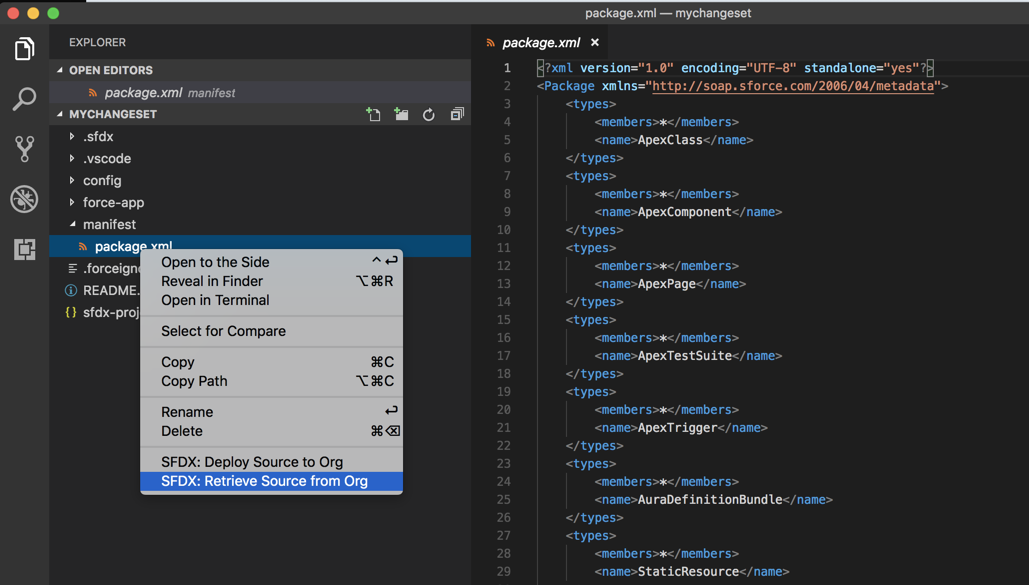
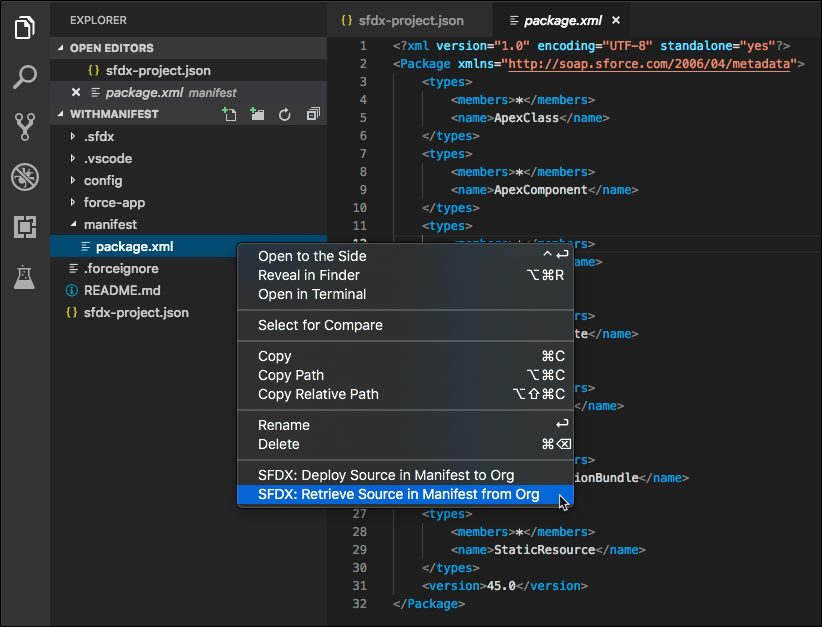
Continue editing
@W-5768689@

diff --git a/docs/articles/user-guide/org-development-model.md b/docs/articles/user-guide/org-development-model.md
@@ -2,45 +2,46 @@
 title: Org Development Model with VS Code
 ---
 
-The latest release of the Salesforce Extensions for VS Code and the Salesforce CLI added an open beta of basic support for developing against non-scratch orgs. This means you can now use VS Code with your `package.xml` file against Scratch Orgs, Developer Edition Orgs, etc.
+When you use the Org Development Model, you track your changes manually and deploy sets of changes to sandboxes and then to your production org. (The Package Development Model, in contrast, involves working with source-tracked orgs and moving your changes between orgs using packaged sets of metadata.) For details, see the [Org Development Model](https://trailhead.salesforce.com/content/learn/modules/org-development-model) Trailhead module.
+
+This article describes how to work with orgs that don’t have source tracking, such as sandboxes and Developer Edition (DE) orgs, in VS Code.
 
 ![Demo](/images/changeset-demo.gif)
 
 ## Getting Started
 
-First, Open VS Code and create a project. To create a project with a manifest run the command `SFDX: Create Project with Manifest`.
+First, open VS Code and create a project. To create a project with a manifest, open the command palette (press Ctrl+Shift+P on Windows or Linux, or Cmd+Shift+P on macOS) and run **SFDX: Create Project with Manifest**.
 
 ![Create project](/images/create-project-with-manifest.png)
 
-> Alternatively you can use the CLI to create the project.
-
-```
-sfdx force:project:create --projectname myproject --manifest
-cd mychangeset
-code .
-```
-
-Next, you will need to authorize the org you will be working with.
-
-If you want to connect to a sandbox org, edit your `sfdx-project.json` file to set `sfdcLoginUrl` to `https://test.salesforce.com` before you authorize the org.
-
-To start the login process, run the command `SFDX: Authorize an Org`.
+Next, authorize the org you want to develop against. To start the login process, open the command palette and run **SFDX: Authorize an Org**.
 
 ![Authorize an Org](/images/authorize-org-command.png)
 
-Your browser will open and you can login to your Sandbox, Developer Edition, trial, etc. Once you have authenticated, you can close the browser and return to VS Code.
+After you select a login URL and give your project a name, your browser opens and you can log in to your org. After you finish logging in, close the browser and return to VS Code.
 
-The new project you created came with a default manifest file located at `manifest/package.xml`. Right-click this file and select the command `SFDX: Retrieve Source from Org`
+Next, retrieve your source from the org you authorized. To retrieve source from an org without source tracking (from an org that’s not a scratch org), you can:
+- Right-click a manifest, in the Visual Studio Code explorer or the editor, then select **SFDX: Retrieve Source in Manifest from Org**.
+- In the Visual Studio Code explorer, right-click a source file or a directory. Select **SFDX: Retrieve Source from Org**.
+- In a source file that’s open in the editor, right-click anywhere in the editing pane. Select **SFDX: Retrieve This Source File from Org**.
+
+> CAUTION: Retrieving source from an org overwrites your local versions of the source files.
 
 ![Retrieve source from org](/images/retrieve-source-from-org.png)
 
-After you make code changes, you can deploy these changes to your org by running the `SFDX: Deploy to Org` command on either:
+After you make code changes, deploy these changes to your org. To deploy source to an org without source tracking (to an org that’s not a scratch org), you can:
+- Right-click a manifest, in the Visual Studio Code explorer or the editor, then select **SFDX: Deploy Source in Manifest to Org**.
+- In the Visual Studio Code explorer, right-click a source file or a directory. Select **SFDX: Deploy Source to Org**.
+- In a source file that’s open in the editor, right-click anywhere in the editing pane. Select **SFDX: Deploy This Source File to Org**.
+- To deploy files each time you save them, set the user or workspace setting `salesforcedx-vscode-core.push-or-deploy-on-save.enabled` to `true`.
 
-1. A manifest file.
-2. A folder
-3. A file
+> CAUTION: Deploying source to an org overwrites the metadata in your org with your local versions of the source files.
 
 ![Deploy source to org](/images/deploy-source-to-org.png)
+
+To delete source from your project and from your non-source-tracked org, you can:
+- Right-click a manifest, a source file, or a directory in the Visual Studio Code explorer. Select **SFDX: Delete from Project and Org**.
+- Right-click a file that’s open in the editor, and select **SFDX: Delete This from Project and Org**.
 
 ## Source Format
 

diff --git a/docs/articles/apex/refactoring.md b/docs/articles/apex/refactoring.md
@@ -1,32 +1,20 @@
 ---
-title: Apex Refactoring (Beta)
+title: Apex Refactoring
 ---
 
-Salesforce Extensions for VS Code v44.7.0 and later includes a beta version of rename functionality for some Apex symbols. This beta release is limited in functionality and we suggest that you use it only to evaluate features and to provide us with [feedback](#bugs-and-feedback).
+## Refactor: Rename
 
-> NOTICE: This feature is in beta and there could be bugs. If you are not using source control or are not comfortable reverting changes made by this feature, we recommend you do not use this on production code. Also, take care to verify that the changes are correct before deploying or committing code. Please report any [issues on GitHub](https://github.com/forcedotcom/salesforcedx-vscode/issues/new?template=Bug_report.md).
+You can rename any valid Apex symbol defined in your source: methods, locals, fields, properties, constructors, or types (classes, triggers, or enums). To perform a rename, right-click the symbol that you want to rename and select **Rename Symbol**.
 
-![Demo](/images/apex-rename-demo.gif)
+![GIF showing the symbol renaming process](../../images/apex-rename-demo.gif)
 
-## Preview Setup
+Validation of the new symbol name is performed before applying the rename. If the validation fails, an error message explains the reason why the rename refactoring could not be applied. Validation fails if the new name is not a valid Apex identifier or, sometimes, if the new name conflicts with an existing identifier name. (If these situations were allowed, a compiler error or a runtime behavior change could result.)
 
-Before you can use the feature discussed in this article you’ll need to install version v44.7.0 or later of Salesforce Extensions for VS Code.
+![GIF showing a renaming error](../../images/apex-rename-error.gif)
 
-Next, you need to enable the feature in VS Code. Open your user and workspace settings:
+If the new name conflicts with an existing identifier name, we try to fully qualify the references to the existing name in contexts where the conflicts exist.
 
-On Windows or Linux: **File** > **Preferences** > **Settings**
-
-On macOS: **Code** > **Preferences** > **Settings**
-
-Then, set this value in your user or workspace settings:
-
-```
-"salesforcedx-vscode-apex.enable-rename": true
-```
-
-## Getting Started
-
-Apex Refactor: Rename is limited to renaming Apex fields, properties, local variables, and methods. Open any Apex class or trigger, select the code you want to rename, and right-click to open the options menu. You should now see the `Rename Symbol` option.
+![GIF showing a renaming conflict](../../images/apex-rename-conflict.gif)
 
 ## Bugs and Feedback
 
